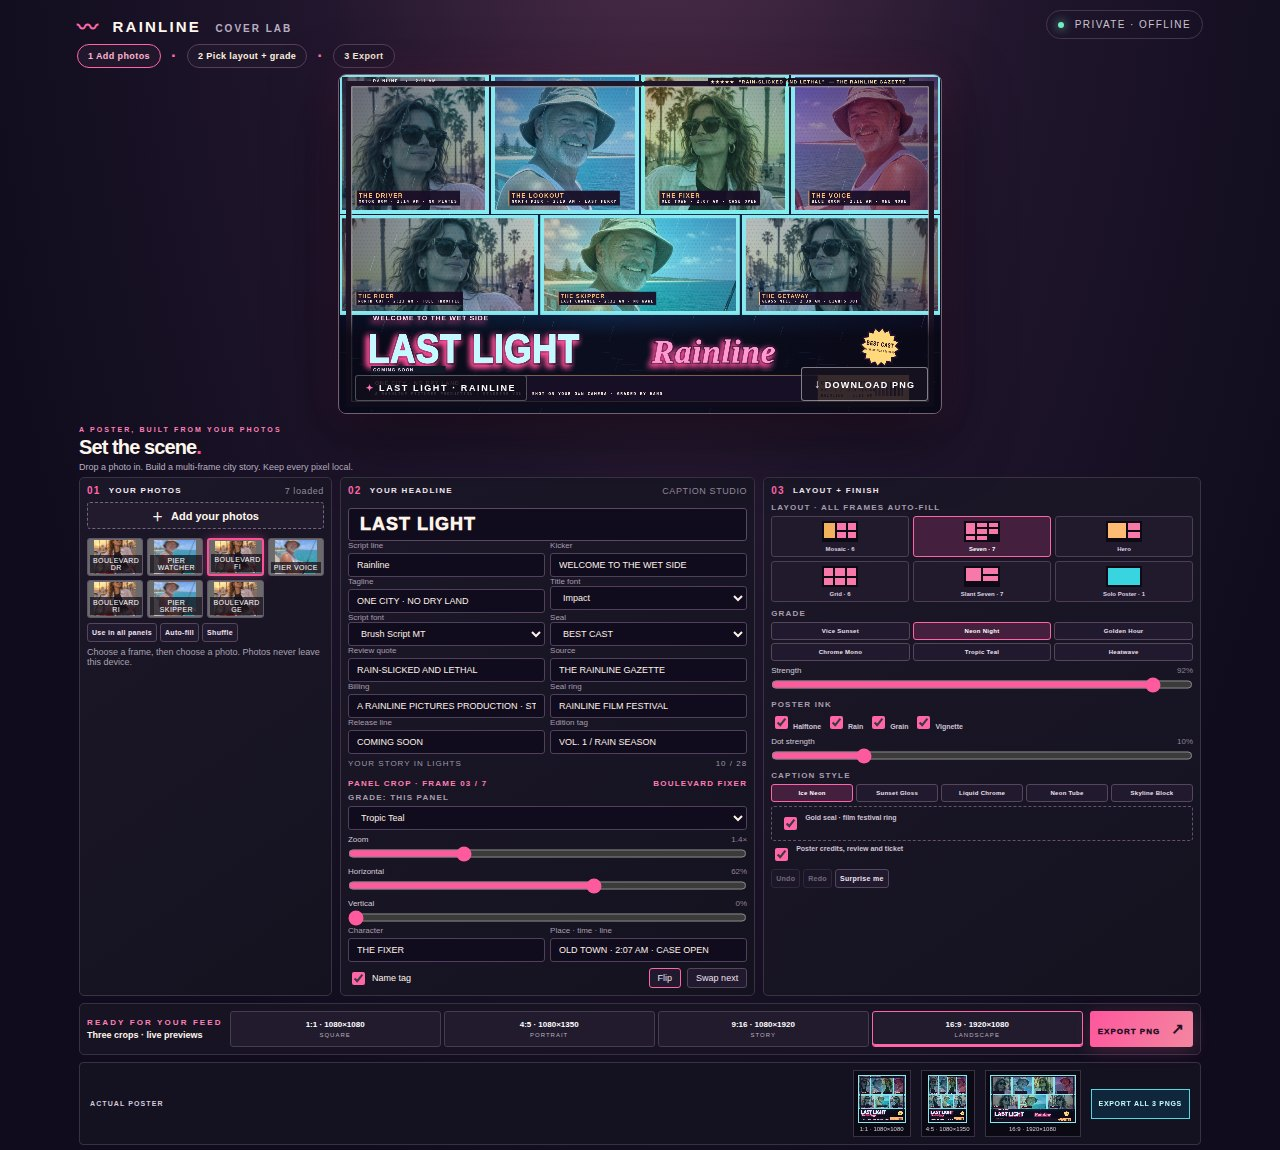
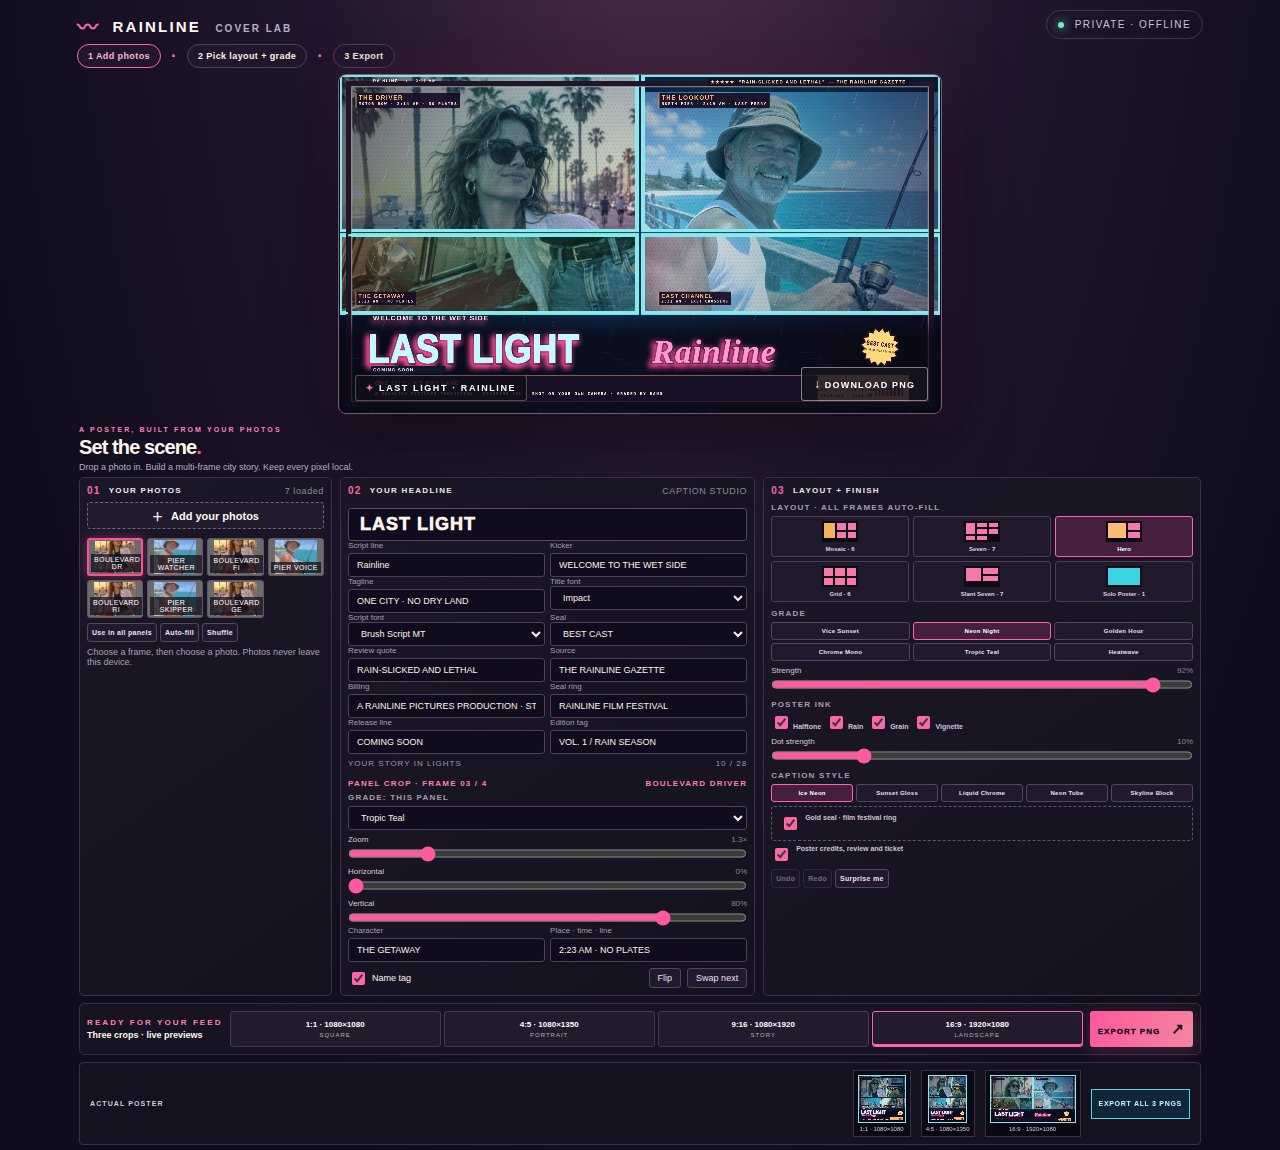
Refine Rainline story and solo posters

diff --git a/app/src/app.js b/app/src/app.js
@@ -30,6 +30,7 @@ let photos = [];
 let frames = [];
 let activeFrame = 0;
 let outputSize = 'portrait';
+let storyCut = false;
 let dragPoint = null;
 const history = [];
 let historyIndex = -1;
@@ -62,6 +63,12 @@ function coverFrames(width, height) {
     [[0,.474],[.495,.474],[.495,.704],[0,.704]],
     [[.505,.474],[1,.474],[1,.704],[.505,.704]],
   ];
+  if (treatment.layout === 'hero' && storyCut) return [
+    [[0,0],[.62,0],[.59,.445],[0,.445]],
+    [[.635,0],[1,0],[1,.215],[.615,.215]],
+    [[.625,.23],[1,.23],[1,.445],[.60,.445]],
+    [[0,.46],[1,.46],[1,.704],[0,.704]],
+  ];
   if (treatment.layout === 'hero') return [
     [[0,0],[.62,0],[.59,.46],[0,.46]], [[.64,0],[1,0],[1,.22],[.62,.22]],
     [[.63,.24],[1,.24],[1,.46],[.60,.46]], [[0,.48],[.48,.48],[.45,.70],[0,.70]],
@@ -79,7 +86,7 @@ function coverFrames(width, height) {
     [[.54,.35],[.77,.35],[.73,.70],[.50,.70]], [[.79,.35],[1,.35],[1,.70],[.75,.70]],
   ];
   if (treatment.layout === 'solo') return [landscape
-    ? [[.48,.034],[.974,.034],[.974,.869],[.48,.869]]
+    ? [[.38,.034],[.974,.034],[.974,.869],[.38,.869]]
     : [[.025,.025],[.975,.025],[.975,.704],[.025,.704]]];
   if (landscape) return [
     [[0,0],[.50,0],[.46,1],[0,1]], [[.52,0],[.75,0],[.73,.30],[.50,.30]],
@@ -639,18 +646,34 @@ function setSceneCrops(scene, width, height) {
     lead: rainLead
       ? [[0,1.08,65,0], [1,1,25,-12], [0,1.3,0,80], [1,1.3,100,72]]
       : [[0,1.70,65,0], [1,1.70,25,0], [2,1.45,62,0], [3,1.40,28,0], [4,1.20,64,12], [5,1.20,27,10], [6,1.12,58,11]],
-    story: [[2,1.45,62,0], [3,1.22,33,5], [4,1.18,65,4], [5,1.22,27,8], [6,1.10,60,8]],
+    story: [
+      [2,1.62,66,0,'teal',false],
+      [3,1.42,32,0,'mono',true],
+      [4,1.68,64,8,'sunset',true],
+      [3,2.70,100,50,'night',false],
+    ],
     solo: [[4,1.65,65,3]],
   };
   if (!scenes[scene] || photos.length < 2) return;
   frames = coverFrames(width, height).map((points, index) => {
     const crop = scenes[scene][index];
     if (!crop || !photos[crop[0]]) return newFrame(points, index);
-    const [photo, zoom, x, y] = crop;
+    const [photo, zoom, x, y, grade, flip] = crop;
     const frame = { points, photo, ...photos[photo].crop, zoom, x, y };
+    if (grade) frame.grade = grade;
+    if (flip !== undefined) frame.flip = flip;
     if ((scene === 'lead' && index > 0) || (scene === 'story' && index > 0)) {
       frame.tag = photos[photo].tag;
       frame.line = photos[photo].line;
+    }
+    if (scene === 'story') {
+      const roles = [
+        ['THE FIXER', 'OLD TOWN · CASE OPEN'],
+        ['THE VOICE', 'BLUE ROOM · ONE MORE'],
+        ['THE RIDER', 'NORTH CUT · FULL THROTTLE'],
+        ['FISHING LINE', 'EAST CHANNEL · NO WAKE'],
+      ];
+      [frame.tag, frame.line] = roles[index];
     }
     if (rainLead && index >= 2) {
       frame.tag = ['THE GETAWAY', 'EAST CHANNEL'][index - 2];
@@ -663,6 +686,7 @@ function setSceneCrops(scene, width, height) {
 async function start() {
   const params = new URLSearchParams(location.search);
   const poster = params.has('poster');
+  storyCut = params.get('scene') === 'story';
   if (poster) document.body.classList.add('poster-view');
   if (Object.hasOwn(gradePresets, params.get('grade'))) treatment.grade = params.get('grade');
   if (Object.hasOwn(layoutPresets, params.get('layout'))) treatment.layout = params.get('layout');

diff --git a/README.md b/README.md
@@ -8,11 +8,11 @@ Build a Rainline film poster from local photographs. Tune the crop and color gra
 
 Open `app/index.html` from any local static server. From this repository, run `node serve.ts` and open http://localhost:8080. No fonts, scripts, photos or requests are fetched from the internet; uploaded images stay in your browser.
 
-The cast library uses just two included real photographs in different crops: Boulevard supplies Driver, Fixer, Rider and Getaway; Pier supplies Lookout, Voice and Skipper. Fixer, Voice and Getaway are flipped. The lead shows each person once, with separate car and fishing details. Its tagline is “ONE CITY · NO DRY LAND”; the story reads “ONE LAST CROSSING”. The woman wears sunglasses in the original photo. Add your own photographs, edit the headline directly in the panel and tap any frame to change its image and crop.
+Boulevard and Pier supply the Driver, Fixer, Rider, Getaway, Lookout, Voice and Skipper treatments through distinct crops. The lead pairs its character frames with separate car and fishing details. Its tagline is “ONE CITY · NO DRY LAND”; the story reads “ONE LAST CROSSING”. The sunglasses remain as they appear in the original Boulevard photo. Add your own photographs, edit the headline directly in the panel and tap any frame to change its image and crop.
 
-Rainline includes six layouts (including Slant Seven and Solo Poster), six global and per-panel grades, editable character tags and scene lines, Flip / Swap next, Undo / Redo and Surprise me. The default Hero lead has four panels: two portraits, a getaway detail and an east-channel detail, all cropped from the same two kit photos. Neon Night adds rain streaks and wet-road reflections. Poster credits include editable review and source, seal and ring, volume ticket, barcode, release line, billing footer and tagline ribbon. New panels fill automatically from the local photo library.
+Rainline includes six layouts (including Slant Seven and Solo Poster), six global and per-panel grades, editable character tags and scene lines, Flip / Swap next, Undo / Redo and Surprise me. The default Hero lead pairs portrait frames with a getaway detail and an east-channel detail, all cropped from the bundled kit imagery. Neon Night adds rain streaks and wet-road reflections. Poster credits include editable review and source, seal and ring, volume ticket, barcode, release line, billing footer and tagline ribbon. New panels fill automatically from the local photo library.
 
-Each cast preset has its own crop. Fixer and Skipper use teal, Voice uses sunset, and the others follow the global grade (night by default). Hero uses four panels in landscape and five in portrait. The solo poster keeps its closer Boulevard Rider portrait and “ONE FACE · NO WAY HOME” tagline. There are no illustrated cast assets; the library contains role presets for two people.
+Each cast preset has its own crop. Fixer and Skipper use teal, Voice uses sunset, and the others follow the global grade (night by default). Hero uses four panels in landscape and five in portrait; the story poster uses a four-panel portrait cut with a face-free fishing-line detail. The solo poster keeps its closer Boulevard Rider portrait and “ONE FACE · NO WAY HOME” tagline. There are no illustrated cast assets; role presets vary crop, grade and orientation using the included photos.
 
 ## Local verification
 
